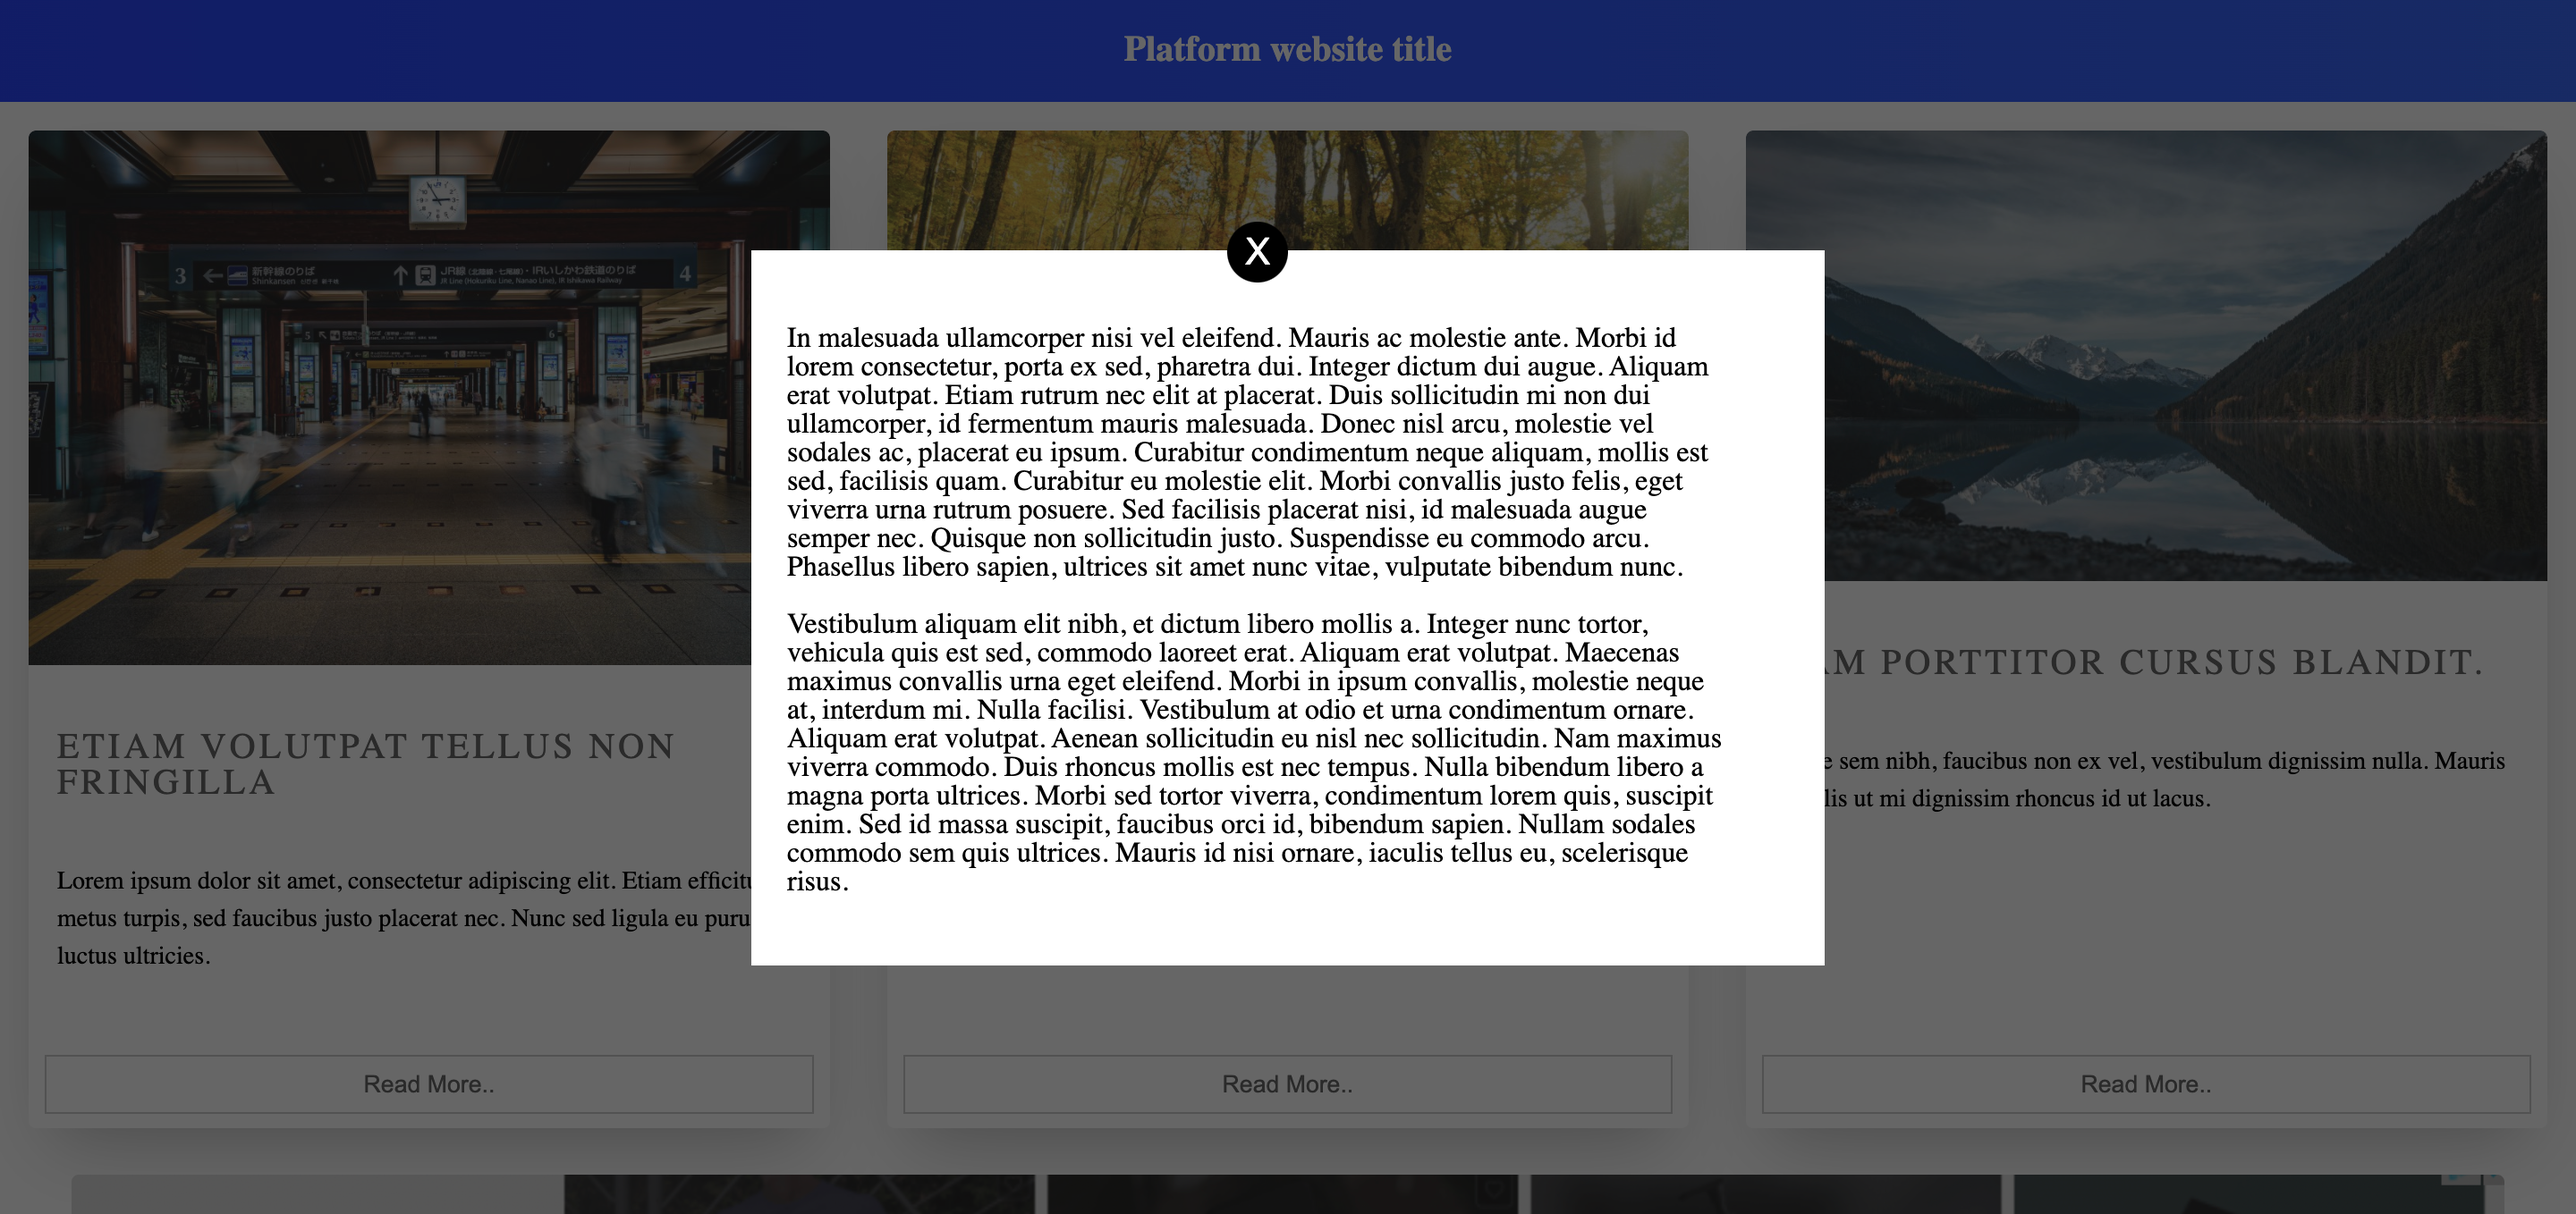
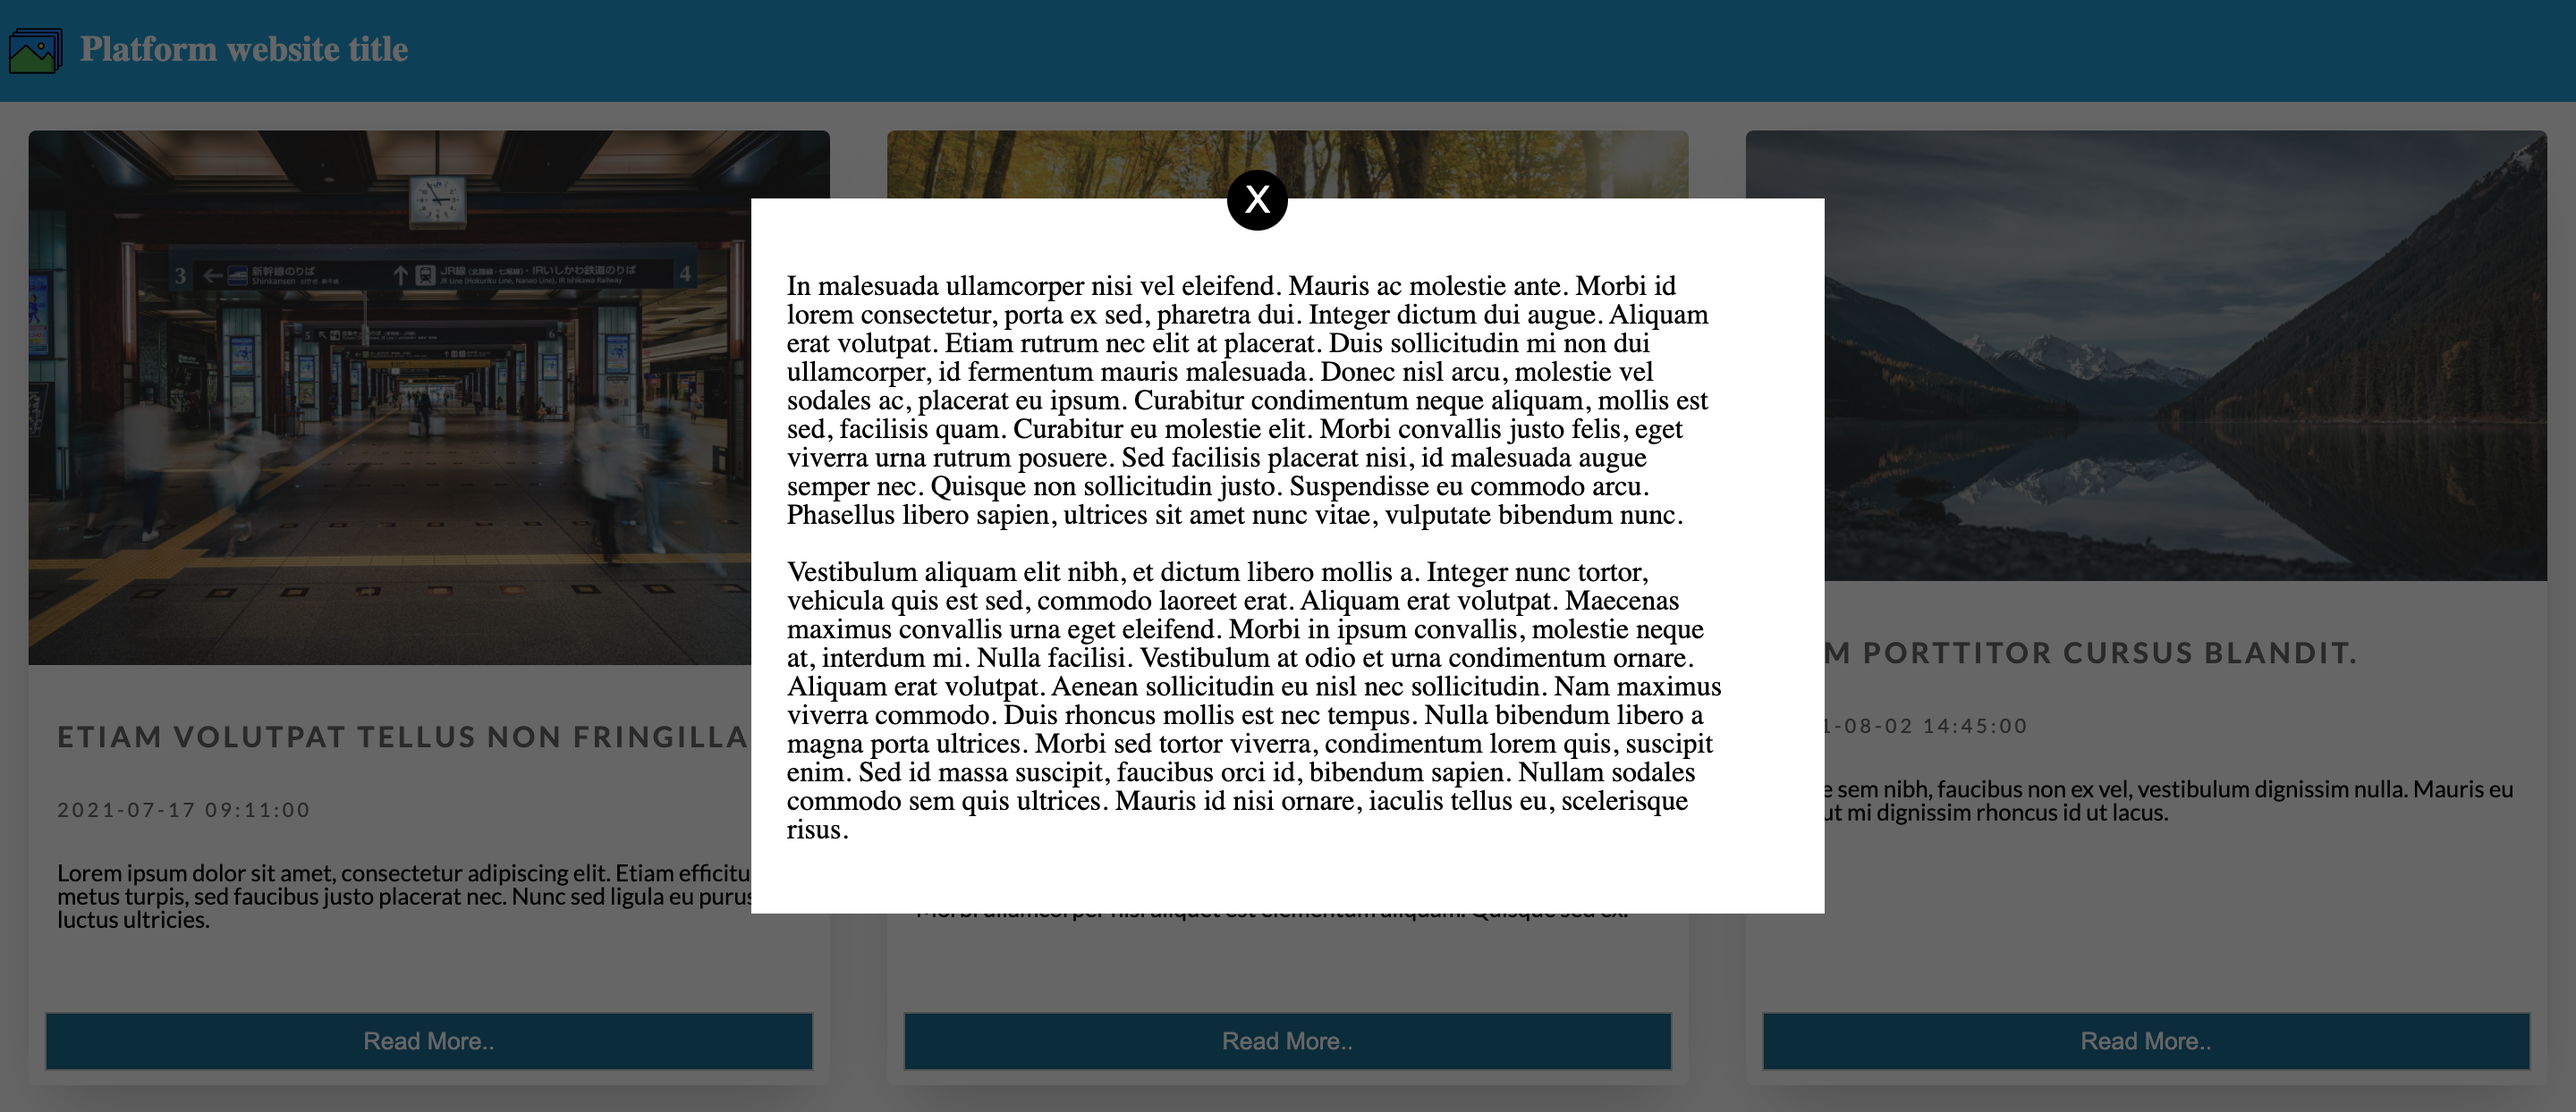
updated the styles and screenshots

diff --git a/src/App.js b/src/App.js
@@ -2,7 +2,7 @@ import { useState } from "react";
 import styled from "styled-components";
 import data from "./assets/data.json";
 import addBanner from "./assets/sampleAdd.png";
-
+import logo from "./assets/logo.svg";
 //MARK -->Components
 import CardModal from "./components/Modal";
 const Images = require.context("./assets/images", true);
@@ -30,6 +30,7 @@ function App() {
   return (
     <>
       <Header>
+        <Logo src={logo} alt="logo" />
         <h1>{data.title}</h1>
       </Header>
       <CardModal
@@ -70,12 +71,20 @@ function App() {
   );
 }
 
+const Logo = styled.img`
+  width: 30px;
+  margin-top: 12 px;
+  margin-right: 10px;
+  display: inline;
+`;
+
 const Header = styled.div`
   padding: 5px;
   text-align: center;
   background: #0fa0d9; /* fallback for old browsers */
   color: white;
   font-size: 10px;
+  display: flex;
 `;
 
 const Gallery = styled.ul`
